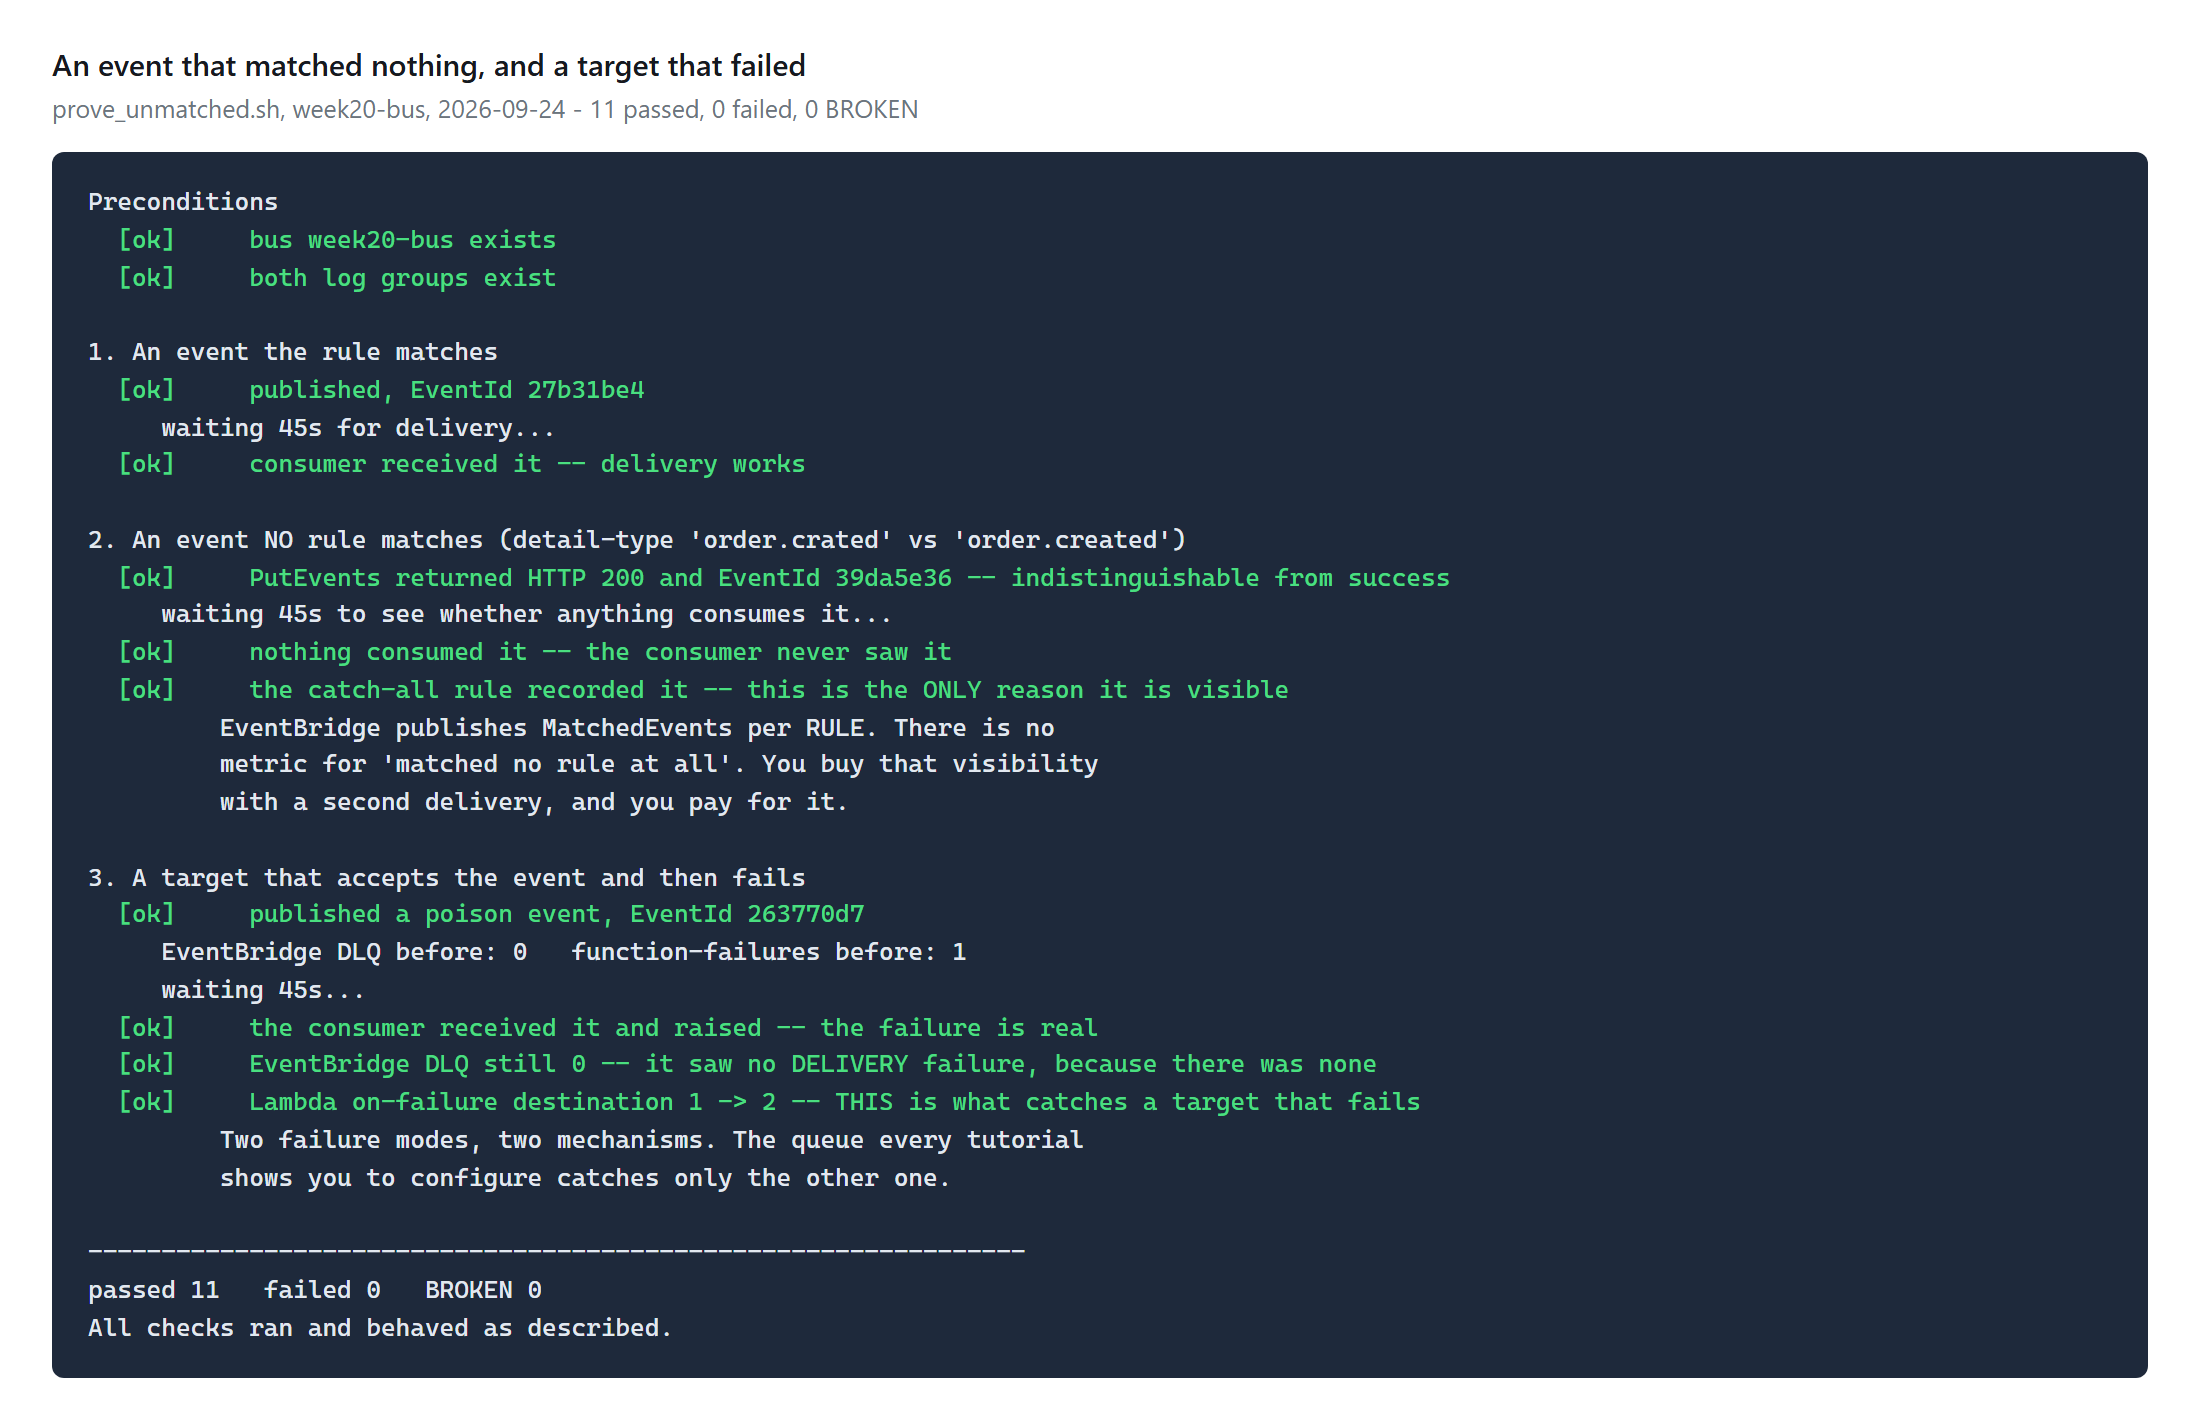
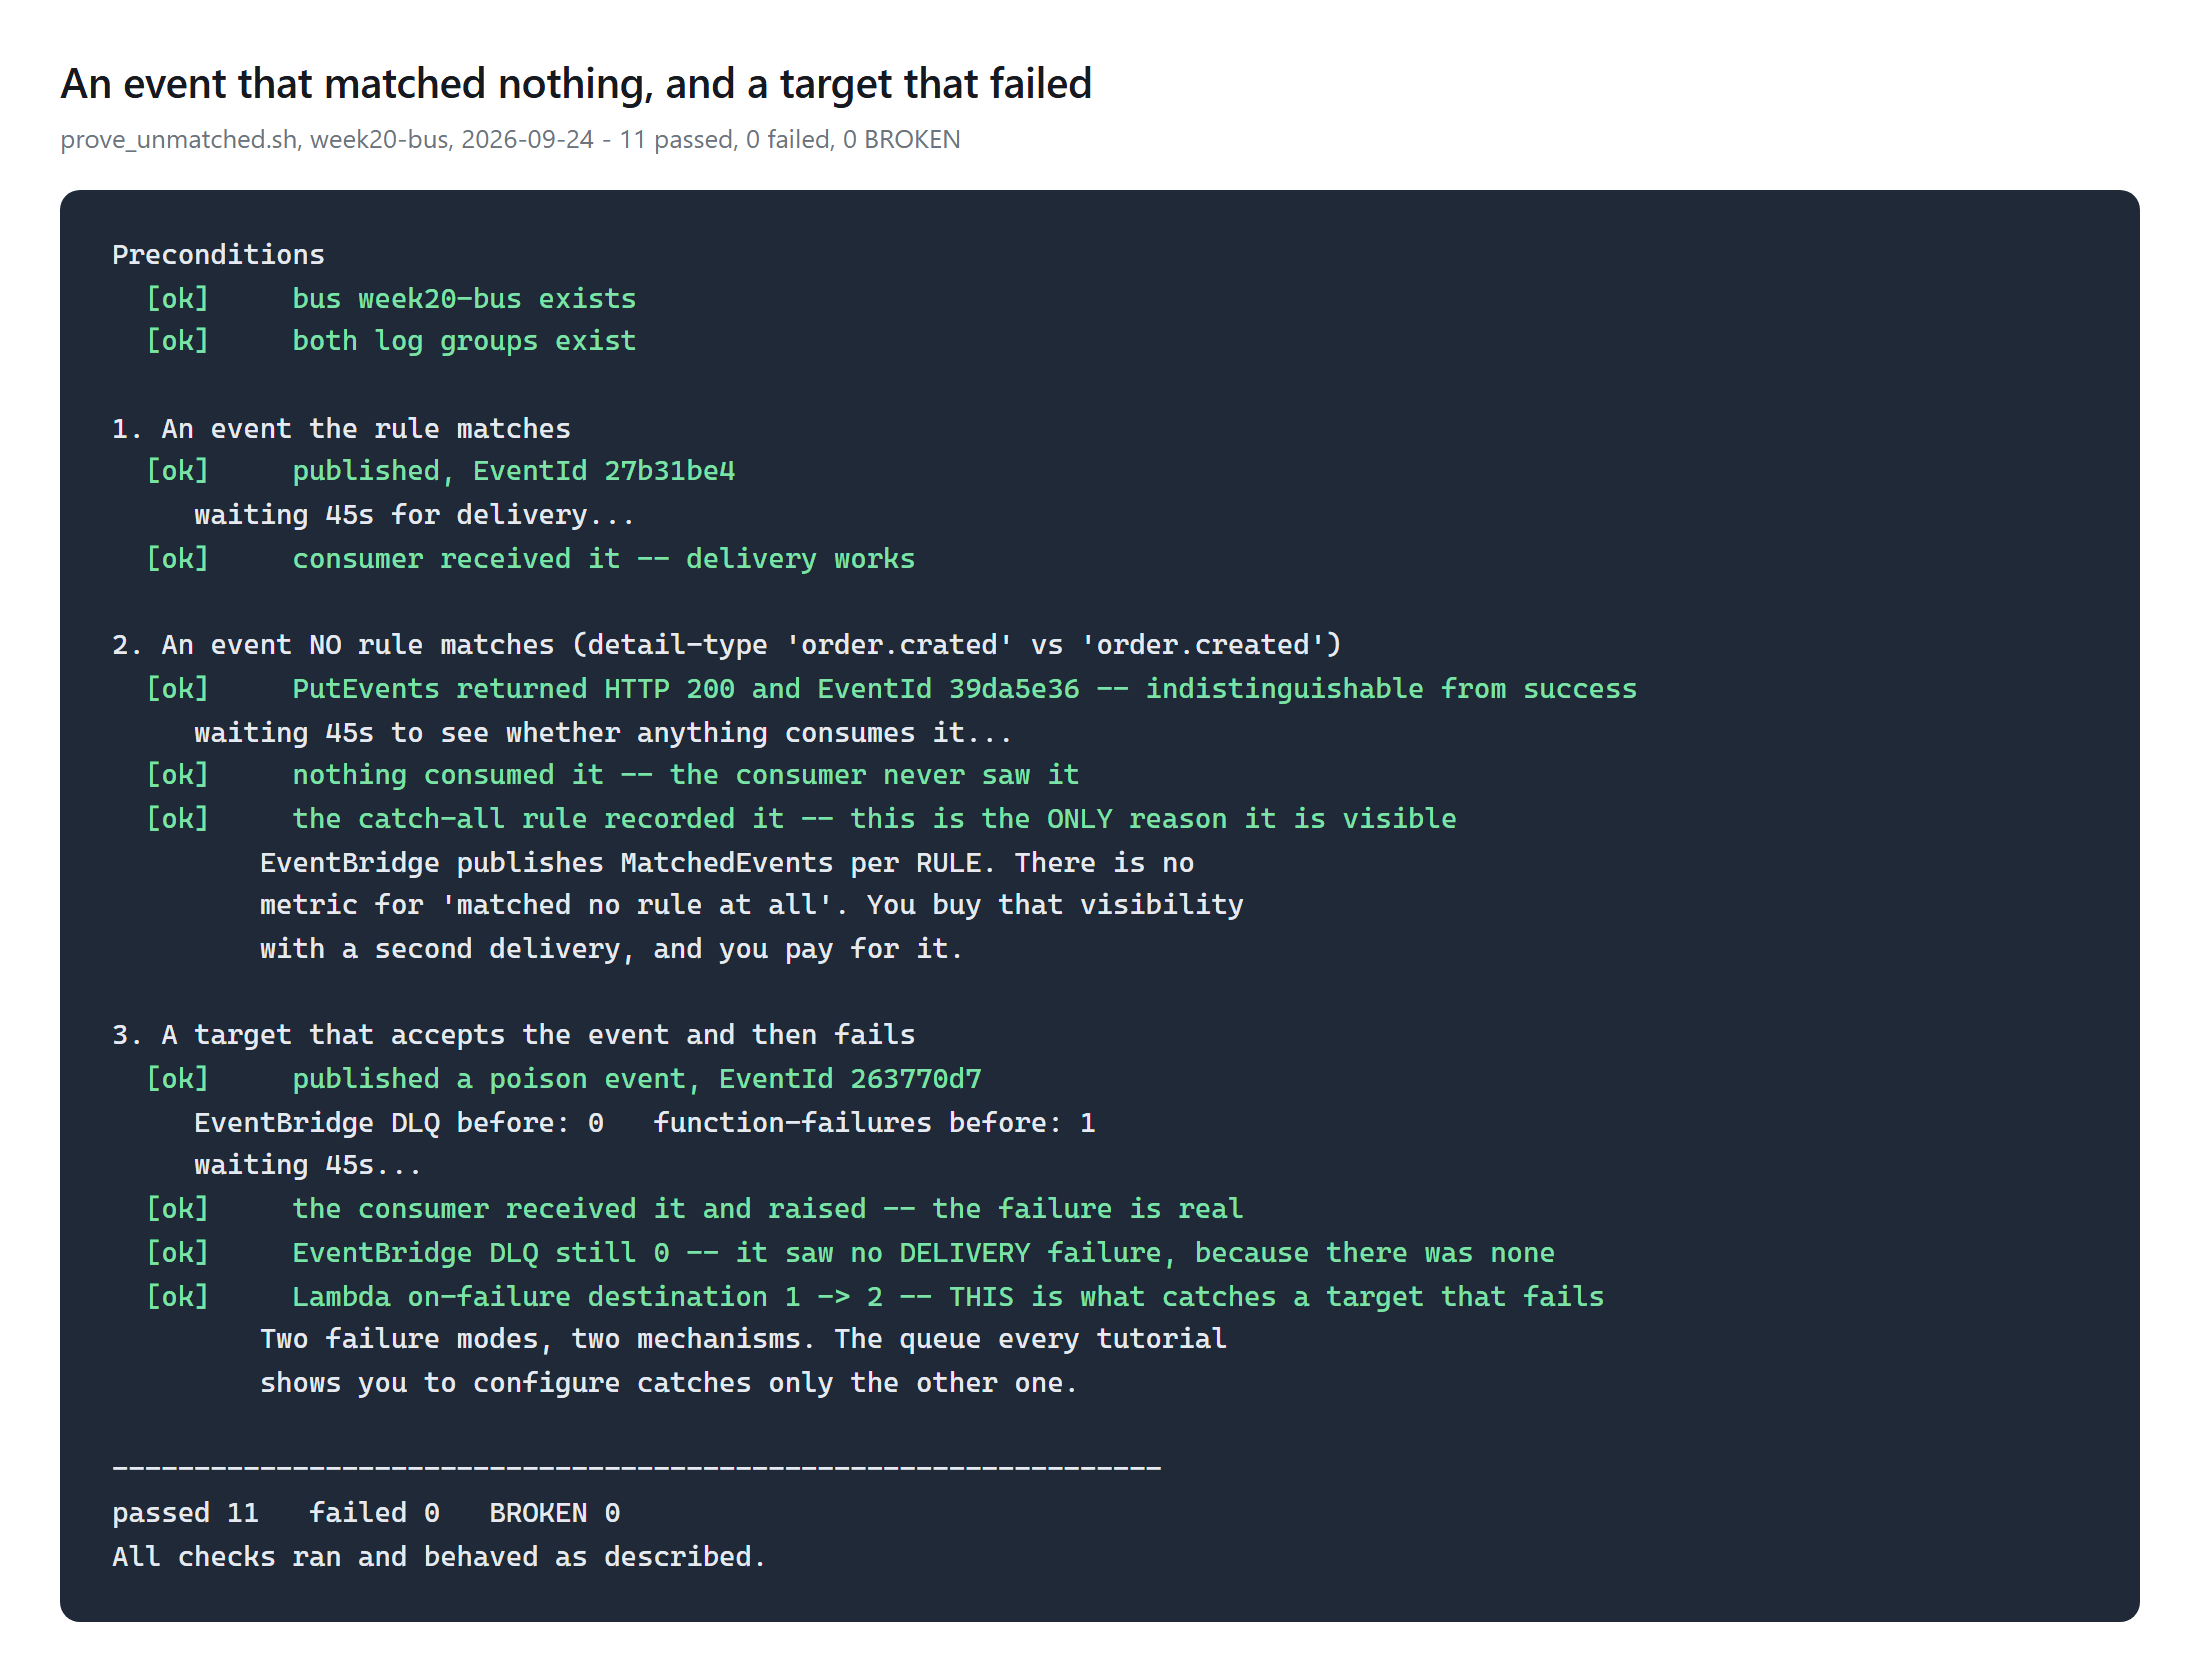
Commit the sources for the three terminal figures
Jay asked what figure 05 was and where it came from. The honest answer was
that it had been typeset by hand from a CloudTrail record held in no
committed form -- and the S3 bucket holding that record is deleted by
teardown. Figures 06 and 12 were the same.

That is the Week 16 failure again: a card generated ad hoc, the source
thrown away, nothing to re-export when it needs changing. render_card.py and
committed HTML exist for the LinkedIn card for exactly that reason. The
figure cards had neither.

Now: scripts/render_terminal_card.py renders a card from a committed .card
source -- a small header plus the captured output verbatim. It does not
reformat the body, because these figures exist to show what a command
actually printed, and re-indenting would make them a paraphrase. [ok],
[FAIL] and [BROKEN] each get their own colour; BROKEN is distinct on purpose,
since a precondition that did not hold is neither a pass nor a failure.

The record in 05 was re-read from the trail bucket before teardown to confirm
it is real: PutEvents, eventId 27b31be4-acbe-7a03-19ec-e2b5d72387bb, at
2026-09-24T18:48:59Z, one of the 13 PutEvents records captured -- which
matches the archive's own EventCount of 13.

All three PNGs are regenerated from source so the committed source and the
published figure are the same thing. Content is identical to what shipped;
only line spacing differs.

Changed region(s): [[0.0, 0.0309, 0.9891, 0.9579]]

diff --git a/scripts/render_terminal_card.py b/scripts/render_terminal_card.py
@@ -1,0 +1,164 @@
+#!/usr/bin/env python3
+# -*- coding: utf-8 -*-
+"""Render a terminal-style figure card from a committed text source.
+
+    python scripts/render_terminal_card.py week-20-.../docs/blog/figures/05-cloudtrail-record.card
+
+Why this exists (2026-09-26)
+----------------------------
+Three Week 20 figures -- the CloudTrail record, the event that matched nothing,
+and the replay proof -- were typeset by hand and their sources thrown away. Jay
+asked what one of them was and where it came from, and the only honest answer
+was "a card I rendered, from data I no longer have in any committed form."
+
+That is exactly the failure render_card.py was written for after Week 16: a card
+generated ad hoc, the source discarded, and nothing to re-export when it needed
+changing. The LinkedIn card has committed HTML for that reason. The figure cards
+did not, and the data behind the CloudTrail one lives in an S3 bucket that
+teardown deletes.
+
+A figure whose source is gone is a claim you can no longer check or correct.
+
+THE FORMAT
+    title:    one line, bold, above the frame
+    subtitle: one line, grey, under the title
+    width:    optional CSS pixels (default 1100)
+    ---
+    everything below is the body, rendered verbatim in a monospace frame
+
+Body lines beginning with '#' render dimmed, as comments. Nothing else is
+interpreted -- the point is to reproduce captured output exactly, so the
+renderer must not reformat it.
+"""
+import argparse
+import html
+import pathlib
+import sys
+
+REPO = pathlib.Path(__file__).resolve().parents[1]
+
+TEMPLATE = """<!doctype html>
+<!-- GENERATED by scripts/render_terminal_card.py from %(srcname)s -- edit the
+     .card source, never this file. -->
+<meta charset="utf-8">
+<style>
+  * { box-sizing: border-box }
+  html, body { margin: 0; padding: 0; background: #fff }
+  body { width: %(width)spx; color: #16191f;
+         font-family: "Segoe UI", -apple-system, "Helvetica Neue", Arial, sans-serif;
+         -webkit-font-smoothing: antialiased }
+  .wrap { padding: 26px 30px 28px }
+  h1 { font-size: 21px; font-weight: 600; margin: 0; letter-spacing: -.01em }
+  .sub { font-size: 13px; color: #6c757d; margin-top: 6px }
+  pre { margin: 18px 0 0; background: #1f2937; color: #e6eaf0; border-radius: 10px;
+        padding: 22px 26px; font-size: 14px; line-height: 1.55; overflow: visible;
+        font-family: "Cascadia Mono", "SF Mono", Consolas, "Liberation Mono", monospace;
+        white-space: pre; tab-size: 4 }
+  .c  { color: #97a3b6 }
+  .ok { color: #7ee2a8 }
+  .no { color: #ff8a8a }
+  .br { color: #ffc46b }
+</style>
+<div class="wrap">
+  <h1>%(title)s</h1>
+  <div class="sub">%(subtitle)s</div>
+  <pre>%(body)s</pre>
+</div>
+"""
+
+
+def parse(path):
+    raw = path.read_text(encoding="utf-8")
+    if "\n---\n" not in raw:
+        sys.exit("%s: no '---' separating the header from the body" % path.name)
+    head, body = raw.split("\n---\n", 1)
+    meta = {}
+    for line in head.splitlines():
+        if ":" in line:
+            k, v = line.split(":", 1)
+            meta[k.strip().lower()] = v.strip()
+    for required in ("title", "subtitle"):
+        if required not in meta:
+            sys.exit("%s: missing '%s:' in the header" % (path.name, required))
+    return meta, body.rstrip("\n")
+
+
+# The three outcomes prove_unmatched.sh and prove_replay.sh actually emit.
+# BROKEN is its own colour on purpose: it means a precondition did not hold,
+# so the check never ran, and colouring it like a failure or like a pass
+# would both be wrong.
+MARKERS = (("[ok]", "ok"), ("[FAIL]", "no"), ("[BROKEN]", "br"))
+
+
+def render_body(body):
+    out = []
+    for line in body.split(chr(10)):
+        esc = html.escape(line)
+        stripped = line.lstrip()
+        # A comment is dimmed. Detected on the raw line so indentation is
+        # preserved exactly -- these cards show captured output, and
+        # re-indenting it would make them a paraphrase.
+        if stripped.startswith("#"):
+            out.append('<span class="c">%s</span>' % esc)
+            continue
+        cls = next((c for m, c in MARKERS if stripped.startswith(m)), None)
+        out.append('<span class="%s">%s</span>' % (cls, esc) if cls else esc)
+    return chr(10).join(out)
+
+def main():
+    ap = argparse.ArgumentParser()
+    ap.add_argument("source", help="path to a .card file")
+    ap.add_argument("--scale", type=int, default=2)
+    ap.add_argument("--out", default=None,
+                    help="PNG path (default: sibling .png of the source name)")
+    args = ap.parse_args()
+
+    src = pathlib.Path(args.source)
+    if not src.is_absolute():
+        src = REPO / src
+    if not src.exists():
+        sys.exit("no such source: %s" % src)
+
+    meta, body = parse(src)
+    width = int(meta.get("width", 1100))
+    page_html = TEMPLATE % {
+        "srcname": src.name,
+        "width": width,
+        "title": html.escape(meta["title"]),
+        "subtitle": html.escape(meta["subtitle"]),
+        "body": render_body(body),
+    }
+    tmp = src.with_suffix(".html")
+    tmp.write_text(page_html, encoding="utf-8")
+
+    out = pathlib.Path(args.out) if args.out else src.with_suffix(".png")
+    if not out.is_absolute():
+        out = REPO / out
+
+    try:
+        from playwright.sync_api import sync_playwright
+    except ImportError:
+        sys.exit("playwright is not installed")
+
+    with sync_playwright() as p:
+        b = p.chromium.launch()
+        page = b.new_page(viewport={"width": width, "height": 800},
+                          device_scale_factor=args.scale)
+        page.goto(tmp.as_uri())
+        page.wait_for_timeout(400)
+        # full_page so the frame is never clipped: these cards vary in height
+        # with their content, and a fixed viewport would silently cut the last
+        # lines off the longest ones.
+        page.screenshot(path=str(out), full_page=True)
+        b.close()
+
+    try:
+        from PIL import Image
+        print("wrote %s at %sx%s" % (out.name, *Image.open(out).size))
+    except ImportError:
+        print("wrote %s" % out.name)
+    return 0
+
+
+if __name__ == "__main__":
+    sys.exit(main())

diff --git a/week-20-eventbridge-accountable-bus/docs/FIGURE_PLAN.md b/week-20-eventbridge-accountable-bus/docs/FIGURE_PLAN.md
@@ -87,6 +87,31 @@ created after the event, or that the event id changed. Replacing the terminal ou
 have removed the only evidence for the week's fourth finding, so the console shot took 08
 and the proof took a new number rather than reusing a retired one.
 
+
+## Card sources are committed (added 2026-09-26)
+
+Figures 05, 06 and 12 are terminal cards. Their sources live in
+`docs/blog/figures/*.card` and render with
+    python scripts/render_terminal_card.py         week-20-eventbridge-accountable-bus/docs/blog/figures/05-cloudtrail-record.card         --out week-20-eventbridge-accountable-bus/docs/blog/screenshots/05-cloudtrail-record.png
+
+The PNG is written straight into `screenshots/`, which is the one place figures
+live. Nothing is kept in `figures/` but the `.card` source.
+
+They exist because Jay asked what figure 05 was and where it came from, and the
+honest answer was that it had been typeset by hand from data held nowhere. That
+is the Week 16 failure repeated: a card generated ad hoc, its source discarded,
+and nothing to re-export when it needs changing -- which is why the LinkedIn
+card has committed HTML and `render_card.py`. The figure cards had neither, and
+the CloudTrail record behind 05 lived only in an S3 bucket that teardown deletes.
+
+The record in 05 is real and was re-read from that bucket before teardown:
+`PutEvents`, eventId `27b31be4-acbe-7a03-19ec-e2b5d72387bb`, 2026-09-24T18:48:59Z,
+one of the 13 `PutEvents` records the trail captured -- matching the archive's
+own EventCount of 13.
+
+A figure whose source is gone is a claim that can no longer be checked or
+corrected. Every future card ships with its `.card` source.
+
 ## If the build deviates from this plan
 
 Change this file first, then capture. A plan edited afterwards to match what was captured
